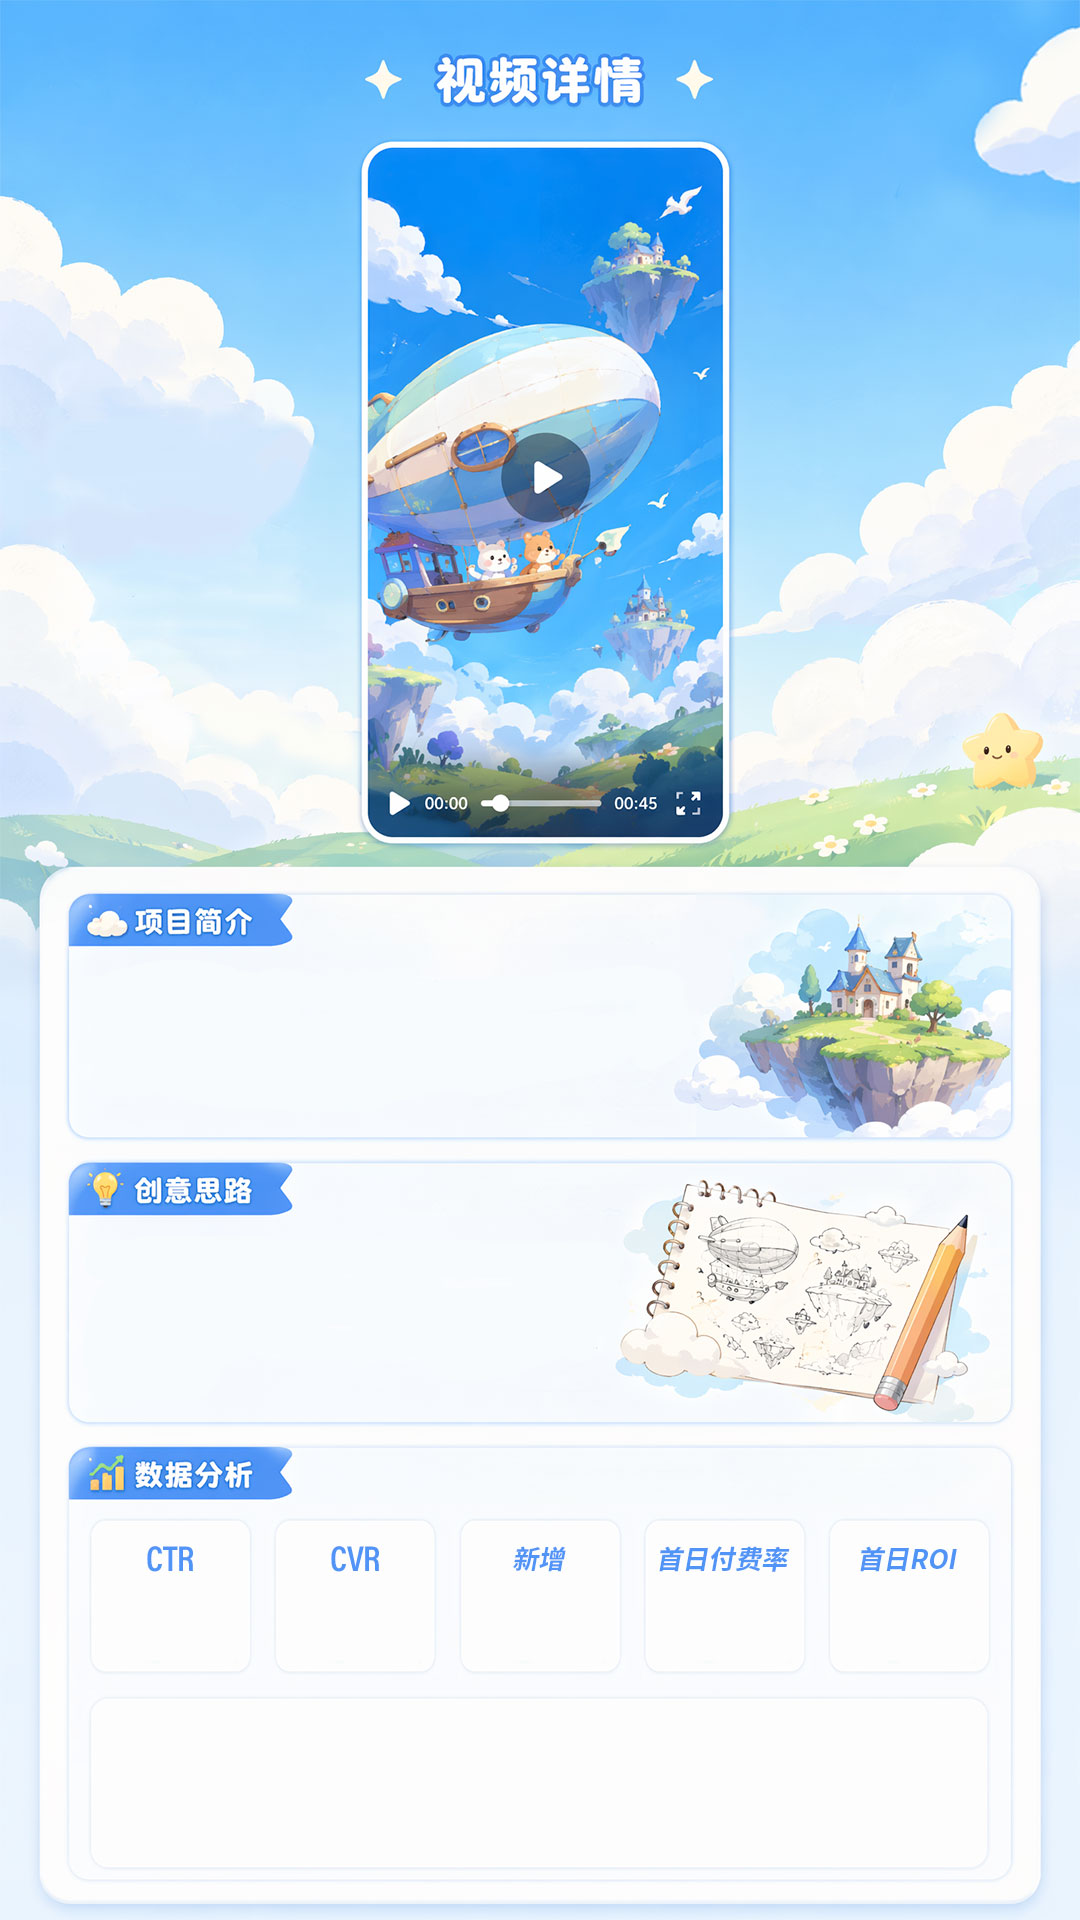
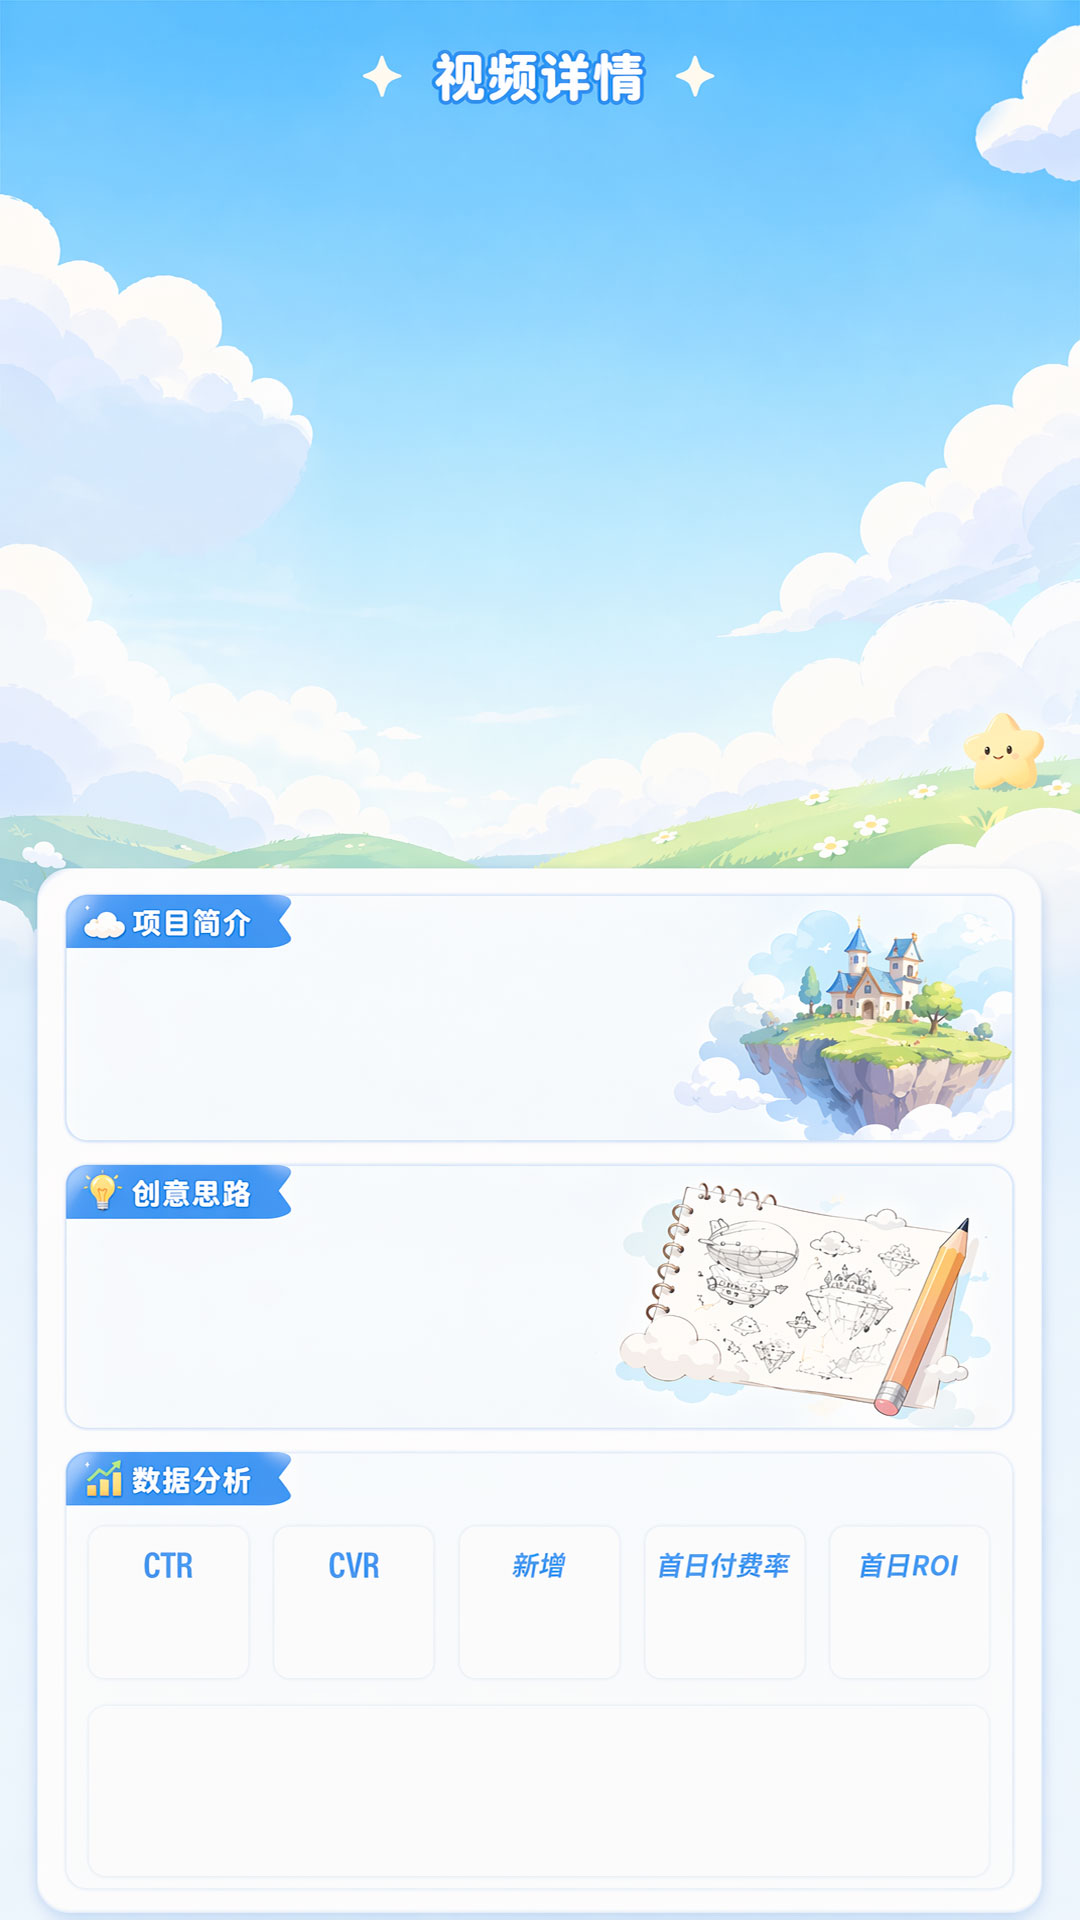
fix: 视频框去圆角 + 移动端描边改纯白(#fff) + 详情页背景更新

diff --git a/src/sections/VideoShowcase.tsx b/src/sections/VideoShowcase.tsx
@@ -106,8 +106,7 @@ function VideoSlot({
         top: `${slot.top}%`,
         width: `${slot.width}%`,
         height: `${slot.height}%`,
-        borderRadius: '40px',
-        border: '3px solid rgba(255,255,255,0.85)',
+        border: '3px solid #ffffff',
         boxShadow: '0 0 12px rgba(255,255,255,0.25)',
       }}
       className="
@@ -178,8 +177,7 @@ function VideoDetailDialog({
               top: `${videoTop}%`,
               width: `${videoW}%`,
               height: `${videoH}%`,
-              border: '3px solid rgba(255,255,255,0.9)',
-              borderRadius: '8px',
+              border: '3px solid #ffffff',
               boxShadow: '0 0 16px rgba(255,255,255,0.3)',
             }}
           >
